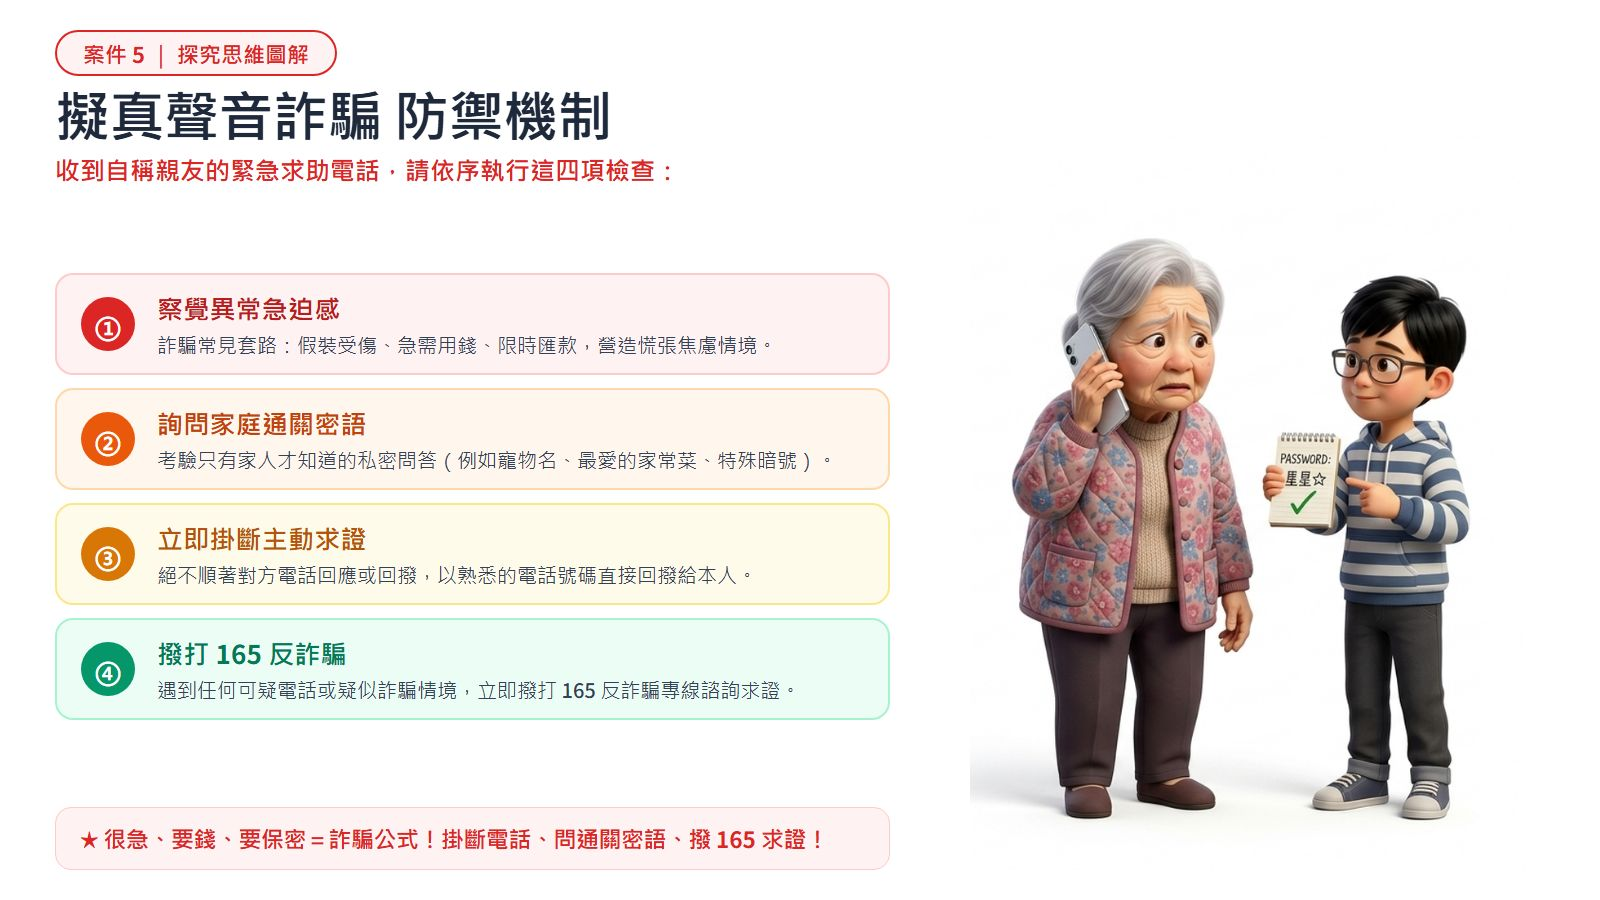
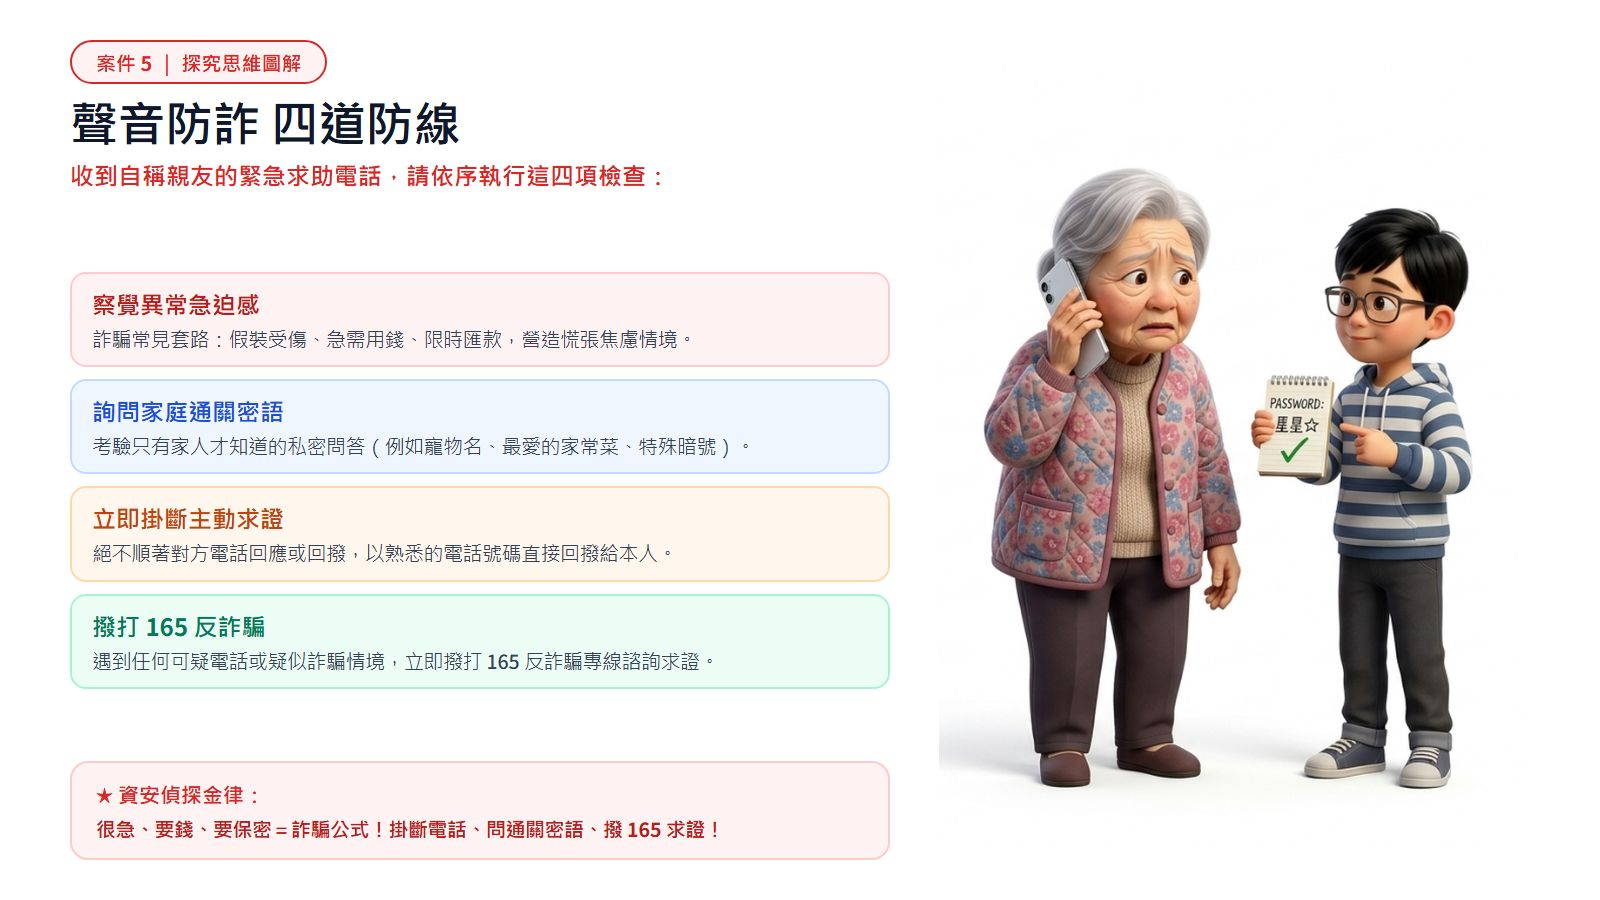
fix(case5): 依 Kristy 選擇正式套用選項 B（紅藍橘綠 4 彩框大字體、無數字、阿嬤與男孩）

diff --git a/units/g5-cyber-safety/index.html b/units/g5-cyber-safety/index.html
@@ -497,7 +497,7 @@
         {
           title: '案件 5　阿嬤接到假電話',
           text: 'AI 可以用幾秒鐘的錄音模仿家人的聲音，也能做出假的臉（深偽）。<b>很急、要錢、要保密</b>就是警訊：先掛斷，用原本的號碼回撥，問全家的通關密語。',
-          slides: ['assets/final_case5.jpg?v=20261024_case5_smartphone_perfect'],
+          slides: ['assets/final_case5.jpg?v=20261024_case5_b_perfect'],
           interactive: GAMES.voice,
           quizzes: [
             {
@@ -518,7 +518,7 @@
               feedback: '製造恐慌與時間壓力是所有社交工程的殺手鐧，目的就是阻止受害者冷靜下來打電話向第三方求證（Fact-Check）。'
             }
           ],
-          infographic: 'assets/i5_deepfake_v3.jpg?v=20261024_case5_smartphone_perfect',
+          infographic: 'assets/i5_deepfake_v3.jpg?v=20261024_case5_b_perfect',
           teacherTips: ['家庭資安任務卡：回家和家人約一組通關密語，並幫家人檢查手機有沒有開雙重驗證，家長簽名帶回。', '可接調查局 × 臺灣吧國安動畫第三集（帳號被盜、個資外洩、假訊息），本機有影片。']
         },
         {

diff --git a/handoff.md b/handoff.md
@@ -138,21 +138,25 @@
   - **Kristy 確認「OK」**：採用 4 彩色大卡片框（紅、藍、橘、綠對比鮮明版，消除原橘黃相近問題），徹底移除 `1 2 3 4` 數字，標題放大至 `24px`，內文放大至 `19.5px`。
   - **排版呼吸感優化**：大標題精煉為單行 `可疑的連結與釣魚陷阱`，底部「想一想」文字框與「★ 資安偵探金律」框與上方 4 個彩框 100% 精準對齊，右側 3D 高馬尾女孩手持手機、警示視窗與懸浮放大鏡立體無瑕，球鞋穩健踏地留白充裕。
   - **快取碼刷新與上線**：覆蓋 `final_case4.jpg` 與 `i4_net_v3.jpg`，更新 `index.html` 快取碼 `?v=20261024_case4_b_perfect`。
+- **依據 Kristy 最新指導完成案件 5（阿嬤的緊急電話·紅藍橘綠 4 彩框大字體·無數字·阿嬤與通關密語男孩）全面升級上線（2026-10-24 17:08）**：
+  - **Kristy 確認選擇「B」**：採用 4 彩色大卡片框（紅、藍、橘、綠對比鮮明版），徹底移除 `1 2 3 4` 數字，標題放大至 `24px`，內文放大至 `19.5px`。
+  - **排版呼吸感優化**：大標題精煉為單行 `阿嬤的緊急電話：防範聲音詐騙`，底部「想一想」文字框與「★ 資安偵探金律」框與上方 4 個彩框 100% 精準對齊，右側 3D 銀髮阿嬤焦慮打電話、冷靜出示家庭通關密語筆記本的眼鏡男孩立體無瑕，球鞋穩健踏地留白充裕。
+  - **快取碼刷新與上線**：覆蓋 `final_case5.jpg` 與 `i5_deepfake_v3.jpg`，更新 `index.html` 快取碼 `?v=20261024_case5_b_perfect`。
 - 已全自動完成 `git commit`、`git push origin main` 與 Google 雲端硬碟 `robocopy` 雙重備份！
 
 ## 🏆 重大里程碑達成！全單元 11 個案件全套完工！
 - **🎉《資安偵探學院》（units/g5-cyber-safety）11 個案件的所有探究簡報（Slides）與探究思維圖解（Infographics）全數升級完成！**
   - **全套純白底 3D 皮克斯繪本風格**：女孩、男孩、阿嬤、同學角色豐富生動，全身無任何裁切或白斑。
   - **全套統一紅框紅字規格標籤**：`案件 N ｜ 探究簡報`、`案件 N ｜ 探究思維圖解`。
-  - **依案件屬性精緻化版面**：案件 1 採用純金字塔＋紅色向上階梯箭頭；案件 2、案件 3、案件 4、案件 6 採用彩框大字體無數字版；其他案件依屬性配置四彩大卡片或清爽大字圓點條列。
+  - **依案件屬性精緻化版面**：案件 1 採用純金字塔＋紅色向上階梯箭頭；案件 2、案件 3、案件 4、案件 5、案件 6 採用彩框大字體無數字版；其他案件依屬性配置四彩大卡片或清爽大字圓點條列。
   - **全套統一底部互動問答框 / 金律提示框**：增強課堂互動與核心觀念收斂。
   - **全套統一舒適呼吸留白**：文字卡片與插圖間保留 70px~150px 充裕空間，徹底告別擁擠與遮擋。
 - 教學影片播放清單（含《2020》網路危機等 4 部短片）已上線。
 
 ## ➡ 下一步
-1. 緊接著「照順序」推進【案件 5：阿嬤的緊急電話（Deepfake 偽造語音與影像）】：
-   - 準備案件 5 的打樣預覽（選項 A 無中間框 vs 選項 B 有 4 彩框），呈報 Kristy 檢閱二選一。
-2. 案件 5 確認後，依序推進案件 7、案件 8...
+1. 緊接著「照順序」推進【案件 7：偷拍的照片會說話（照片 EXIF 與定位資訊）】：
+   - 準備案件 7 的打樣預覽（選項 A 無中間框 vs 選項 B 有 4 彩框），呈報 Kristy 檢閱二選一。
+2. 案件 7 確認後，依序推進案件 8、案件 9...
 3. 始終堅持「改之前必定給 Kristy 確認」！
 
 ## ⚠ 注意事項
@@ -160,7 +164,7 @@
 - 所有插圖一律為 16:9 純白底繪本規格，零切邊、零陰影框。
 
 ## 🕐 最後更新
-- 時間：2026-10-24 16:59
+- 時間：2026-10-24 17:08
 - 更新者：Antigravity @ LAPTOP-IUMJF2MM
 
 
